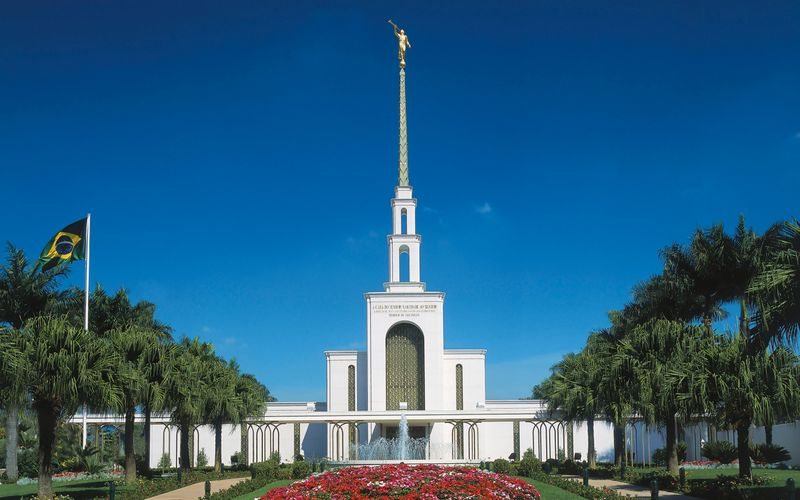
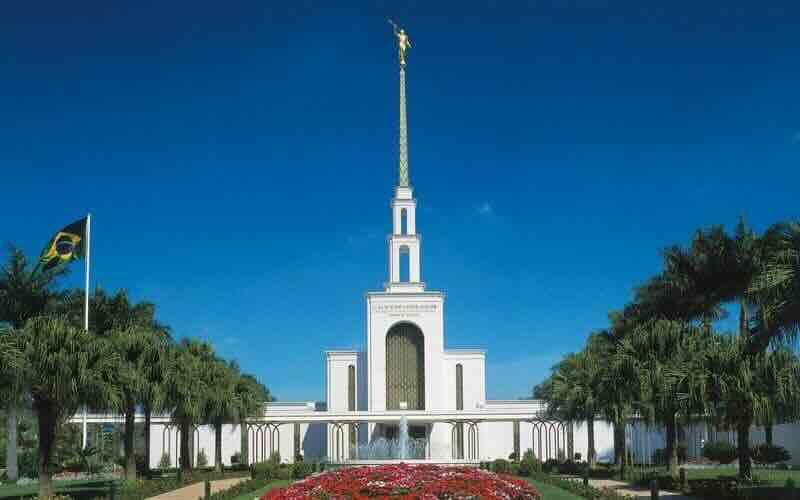
compressed images

diff --git a/temples.html b/temples.html
@@ -54,7 +54,7 @@
             </figure>
         
             <figure>
-                <img src="images/mexico_city_temple_lds.jpeg" alt="Mexico City Temple">
+                <img src="images/mexico_city_temple_lds.jpg" alt="Mexico City Temple">
                 <figcaption>Mexico City Temple</figcaption>
             </figure>
         
